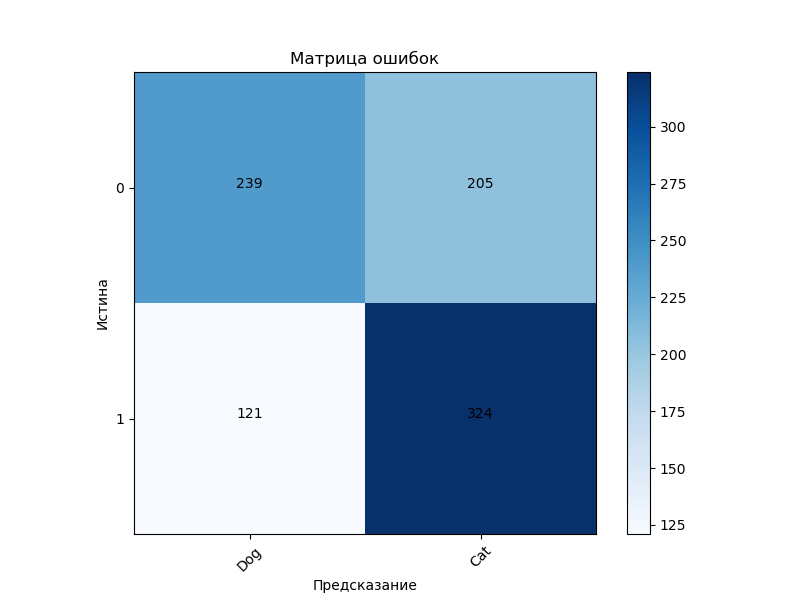
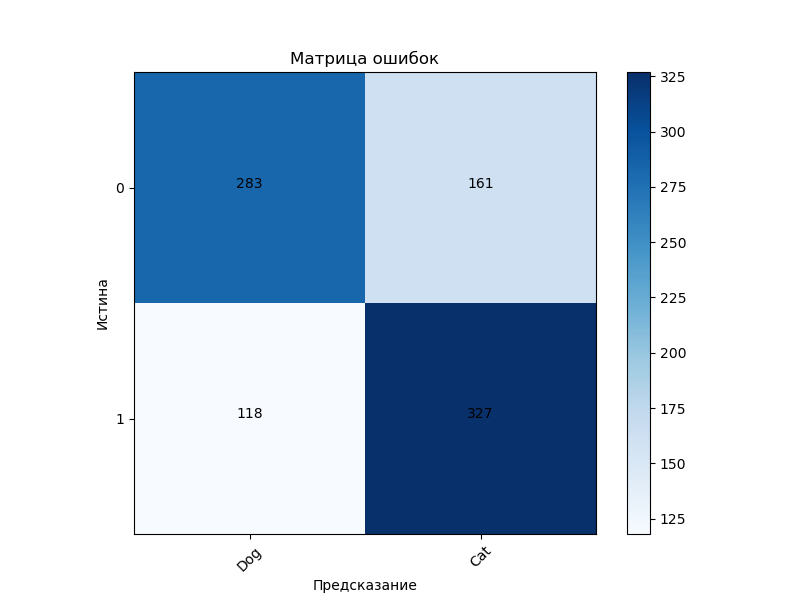
v2.1: update main and README

diff --git a/KozyrevaEA/lab3/main.py b/KozyrevaEA/lab3/main.py
@@ -25,18 +25,27 @@ logging.basicConfig(
 
 
 class ImageLoader:
-    def __init__(self, img_size=(256, 256)):
-        self.img_size = img_size
+    """Класс для загрузки и предобработки изображений из указанной директории"""
 
-    def load_images(self, dataset_path):
-        images = []
-        labels = []
+    def __init__(self, img_size: tuple[int, int] = (256, 256)) -> None:
+        """Инициализация загрузчика изображений"""
+
+        self.img_size: tuple[int, int] = img_size
+
+
+    def load_images(self, dataset_path: str):
+        """Загружает изображения из указанной директории, преобразует их в градации серого и изменяет размер"""
+
+        images: list = []
+        labels: list[int] = []
+
         for img_name in os.listdir(dataset_path):
-            img_path = os.path.join(dataset_path, img_name)
+            img_path: str = os.path.join(dataset_path, img_name)
+
             if img_name.startswith("cat."):
-                label = 1
+                label: int = 1
             elif img_name.startswith("dog."):
-                label = 0
+                label: int = 0
             else:
                 logging.warning(f"Файл {img_name} не соответствует формату. Пропуск.")
                 continue
@@ -48,71 +57,106 @@ class ImageLoader:
                 labels.append(label)
             else:
                 logging.warning(f"Не удалось загрузить изображение: {img_path}")
+
         return np.array(images), np.array(labels)
 
 
 class FeatureExtractor:
-    def __init__(self, feature_type='sift'):
+    """Класс для извлечения ключевых точек и дескрипторов из изображений"""
+
+    def __init__(self, feature_type: str = 'sift') -> None:
+        """Инициализация экстрактора признаков"""
+
         if feature_type == 'sift':
-            self.extractor = cv2.SIFT_create()
+            self.extractor: cv2.SIFT = cv2.SIFT_create()
         elif feature_type == 'orb':
-            self.extractor = cv2.ORB_create()
+            self.extractor: cv2.ORB = cv2.ORB_create()
         else:
             raise ValueError("Unsupported feature type. Choose 'sift' or 'orb'.")
+    
 
-    def extract_features(self, images):
-        keypoints_list = []
-        descriptors_list = []
+    def extract_features(self, images: list[np.ndarray]):
+        """Извлекает ключевые точки и дескрипторы из списка изображений"""
+
+        keypoints_list: list = []  # список ключевых точек
+        descriptors_list: list = []  # список дескрипторов
+        
         for img in images:
             keypoints, descriptors = self.extractor.detectAndCompute(img, None)
             keypoints_list.append(keypoints)
-            if descriptors is not None:
-                descriptors_list.append(descriptors)
-            else:
-                descriptors_list.append(None)
+            descriptors_list.append(descriptors if descriptors is not None else None)
+        
         return keypoints_list, descriptors_list
 
 
 class KMeansTrainer:
-    def __init__(self, num_clusters):
-        self.num_clusters = num_clusters
+    """Класс для обучения модели KMeans и построения гистограмм признаков"""
+
+    def __init__(self, num_clusters: int) -> None:
+        """Инициализация KMeansTrainer"""
+
+        self.num_clusters: int = num_clusters
         self.kmeans = None
 
-    def train(self, descriptors_list):
+
+    def train(self, descriptors_list: list) -> None:
+        """Обучает модель KMeans на переданных дескрипторах"""
+
         logging.info("Обучение KMeans")
-        all_descriptors = np.vstack([desc for desc in descriptors_list if desc is not None])
+        valid_descriptors = [desc for desc in descriptors_list if desc is not None]
+        if not valid_descriptors:
+            raise ValueError("Нет доступных дескрипторов для обучения KMeans.")
+        
+        all_descriptors = np.vstack(valid_descriptors)
         self.kmeans = KMeans(n_clusters=self.num_clusters, random_state=42)
         self.kmeans.fit(all_descriptors)
 
-    def build_histogram(self, descriptors):
+
+    def build_histogram(self, descriptors) -> np.ndarray:
+        """Строит гистограмму признаков на основе обученной модели KMeans"""
+
+        if self.kmeans is None:
+            raise ValueError("Модель KMeans не обучена.")
+        
         histogram = np.zeros(self.num_clusters)
         if descriptors is not None:
             predictions = self.kmeans.predict(descriptors)
             for pred in predictions:
                 histogram[pred] += 1
+        
         return histogram
 
-
 class Classifier:
-    def __init__(self, classifier_type='svm'):
-        self.scaler = StandardScaler()
+    """Класс для обучения и предсказания с использованием различных моделей классификации."""
+
+    def __init__(self, classifier_type = 'svm') -> None:
+        """Инициализация классификатора"""
+
+        self.scaler: StandardScaler = StandardScaler()
+        self.model = None
+
         if classifier_type == 'svm':
-            self.model = SVC(kernel='rbf', C= 1, random_state=42)
+            self.model = SVC(kernel='rbf', C=1, random_state=42)
         elif classifier_type == 'random_forest':
             self.model = RandomForestClassifier(n_estimators=200, random_state=42)
         elif classifier_type == 'log_reg':
-            self.model = LogisticRegression(max_iter= 100, C = 1, random_state=42)
+            self.model = LogisticRegression(max_iter=100, C=1, random_state=42)
         else:
-            raise ValueError("Unsupported classifier type. Choose 'svm', 'random_forest', or 'logistic_regression'.")
+            raise ValueError("Unsupported classifier type. Choose 'svm', 'random_forest', or 'log_reg'.")
 
-    def train(self, X_train, y_train):
+
+    def train(self, X_train: np.ndarray, y_train: np.ndarray) -> None:
+        """Обучает модель классификации"""
+
         X_train_scaled = self.scaler.fit_transform(X_train)
         self.model.fit(X_train_scaled, y_train)
 
-    def predict(self, X_test):
+
+    def predict(self, X_test: np.ndarray) -> np.ndarray:
+        """Выполняет предсказание классов"""
+
         X_test_scaled = self.scaler.transform(X_test)
         return self.model.predict(X_test_scaled)
-
 
 class Visualizer:
     @staticmethod
@@ -219,7 +263,6 @@ def evaluate_classifier(y_true, y_pred, classifier_name):
     print(f"Precision (weighted avg): {precision:.4f}")
     print(f"Recall (weighted avg): {recall:.4f}")
     print(f"F1-score (weighted avg): {f1_score:.4f}")
-
 
 
 def main():

diff --git a/KozyrevaEA/lab3/README.md b/KozyrevaEA/lab3/README.md
@@ -1,0 +1,28 @@
+python main.py --train train --test test --clusters 25 --algorithm sift --classifier svm
+
+Classification Report:
+              precision    recall  f1-score   support
+
+         Dog       0.70      0.62      0.66       444
+         Cat       0.66      0.73      0.69       445
+
+    accuracy                           0.68       889
+   macro avg       0.68      0.68      0.68       889
+weighted avg       0.68      0.68      0.68       889
+
+2025-02-20 21:44:50,705 [INFO] Accuracy: 67.60%
+Accuracy: 67.60%
+
+python main.py --train train --test test --clusters 40 --algorithm sift --classifier svm
+
+Classification Report:
+              precision    recall  f1-score   support
+
+         Dog       0.71      0.64      0.67       444
+         Cat       0.67      0.73      0.70       445
+
+    accuracy                           0.69       889
+   macro avg       0.69      0.69      0.69       889
+weighted avg       0.69      0.69      0.69       889
+
+2025-02-20 22:29:34,688 [INFO] Accuracy: 68.62%
